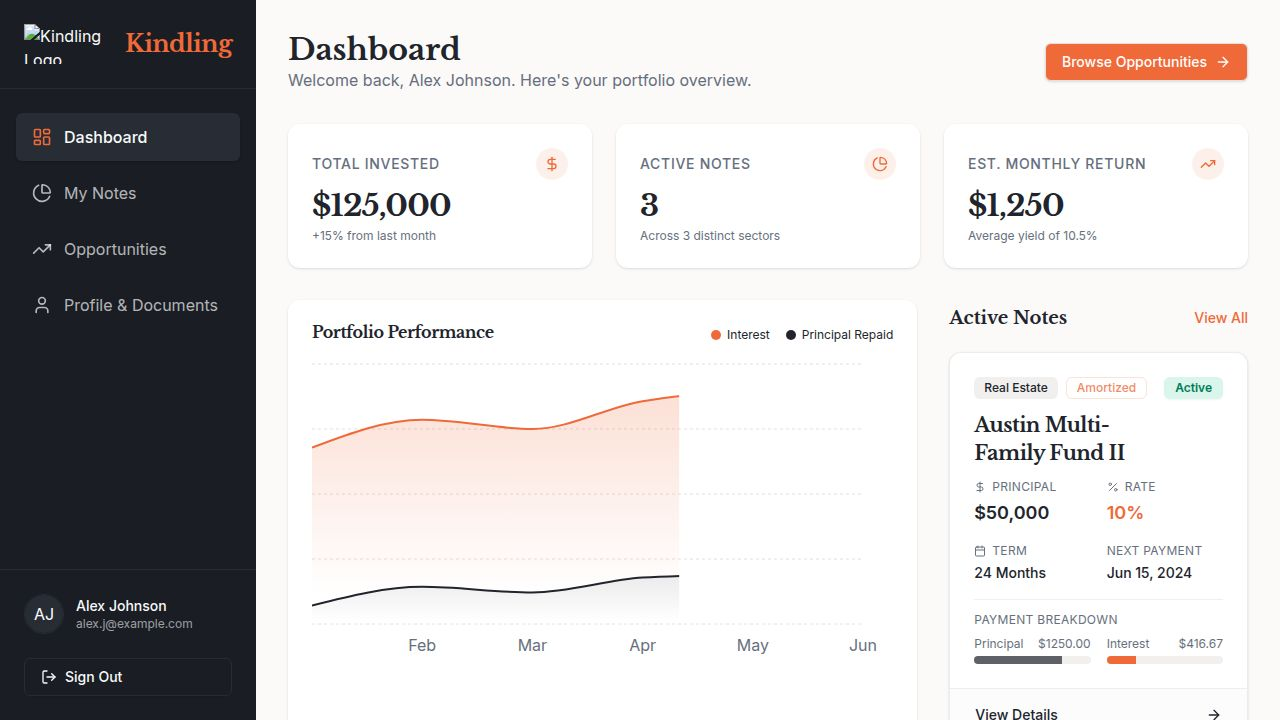
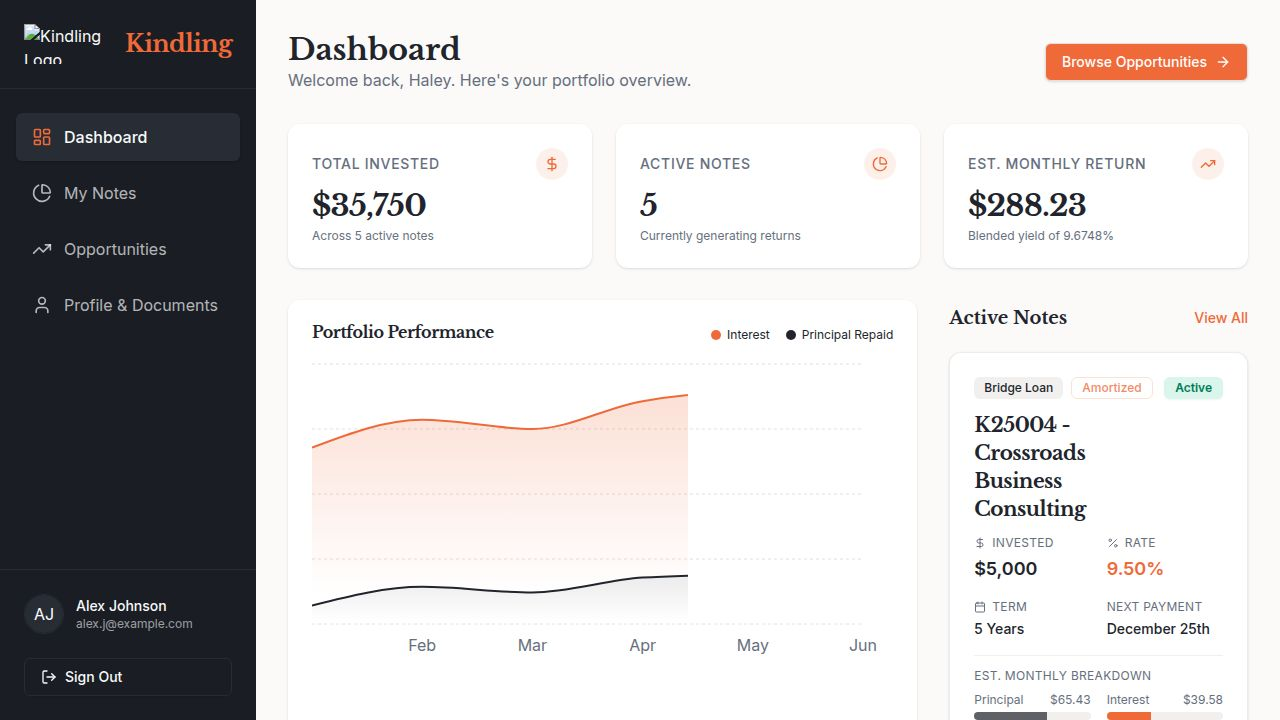
Add more participation details for Haley's investments
Update server/seed.ts to include K25003 and K25004 participations for user 'hdavidsh', increasing the total invested amount.

Replit-Commit-Author: Agent
Replit-Commit-Session-Id: d1bd6e13-b3eb-441c-80fa-889f2b54210d
Replit-Commit-Checkpoint-Type: full_checkpoint
Replit-Commit-Event-Id: 9b620981-6260-40da-bf56-92145424a062
Replit-Commit-Screenshot-Url: https://storage.googleapis.com/screenshot-production-us-central1/335797fc-21ed-4aea-879b-713c96c0d5d4/d1bd6e13-b3eb-441c-80fa-889f2b54210d/SEd3b9z
Replit-Helium-Checkpoint-Created: true

diff --git a/server/seed.ts b/server/seed.ts
@@ -179,7 +179,25 @@ async function seed() {
     status: "Active",
   });
 
-  console.log("✓ Created Haley's participations: K24002 ($10,000), K25001 ($5,000), K25002 ($5,000)");
+  // K25003: $10,750 at 9.50% = $225.77/month
+  await storage.createParticipation({
+    userId: user.id,
+    noteId: note5.id,
+    investedAmount: "10750.00",
+    purchaseDate: new Date("2025-08-15"),
+    status: "Active",
+  });
+
+  // K25004: $5,000 at 9.50% = $105.01/month
+  await storage.createParticipation({
+    userId: user.id,
+    noteId: note6.id,
+    investedAmount: "5000.00",
+    purchaseDate: new Date("2025-11-14"),
+    status: "Active",
+  });
+
+  console.log("✓ Created Haley's 5 participations: K24002 ($10,000), K25001 ($5,000), K25002 ($5,000), K25003 ($10,750), K25004 ($5,000)");
 
   // Create sample beneficiary
   await storage.createBeneficiary({
@@ -201,7 +219,7 @@ async function seed() {
   console.log("✓ Created sample document");
 
   console.log("✅ Database seeded successfully!");
-  console.log(`\nDemo credentials:\nUsername: hdavidsh\nPassword: demo123\nTotal Invested: $20,000`);
+  console.log(`\nDemo credentials:\nUsername: hdavidsh\nPassword: demo123\nTotal Invested: $35,750`);
 }
 
 seed().catch(console.error);
